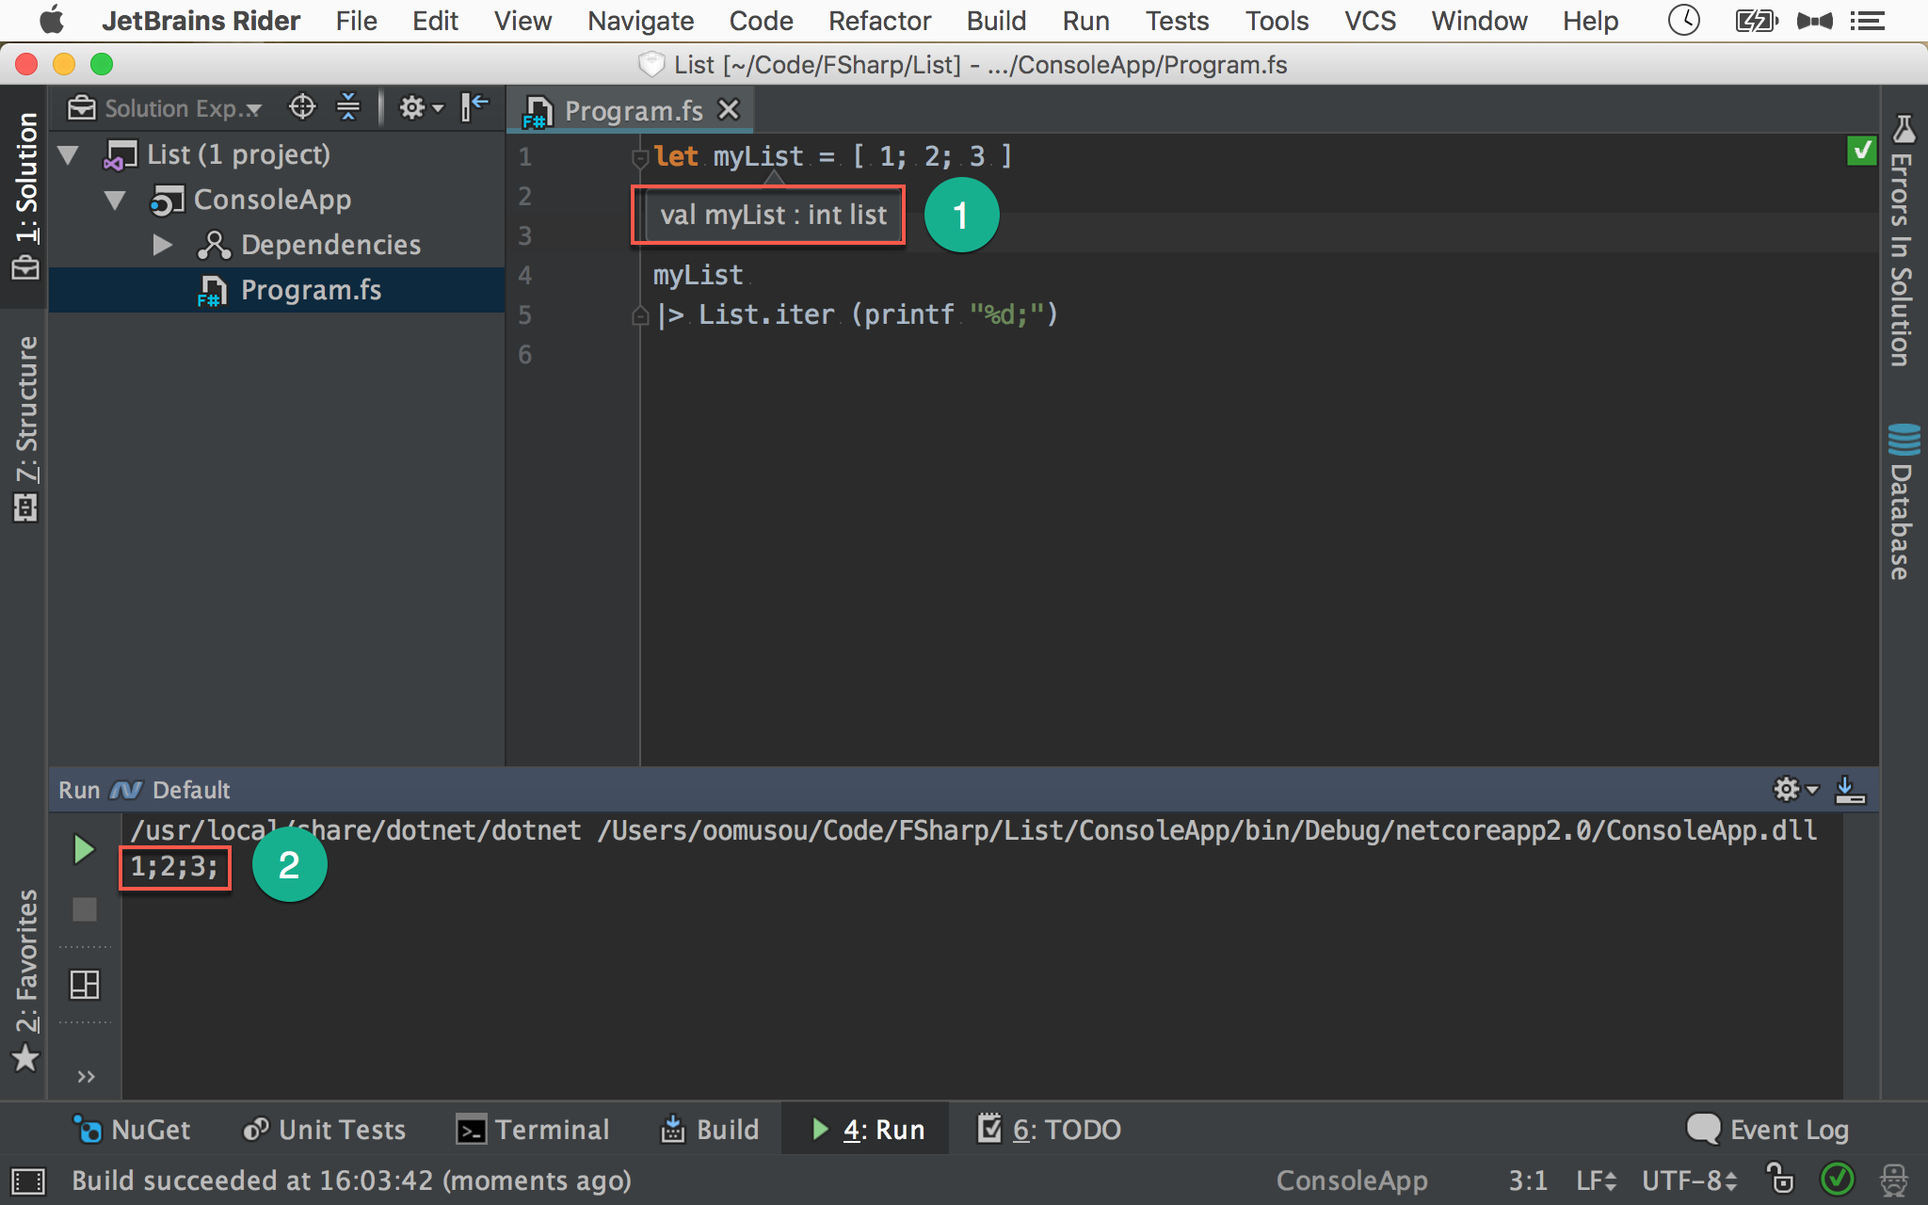
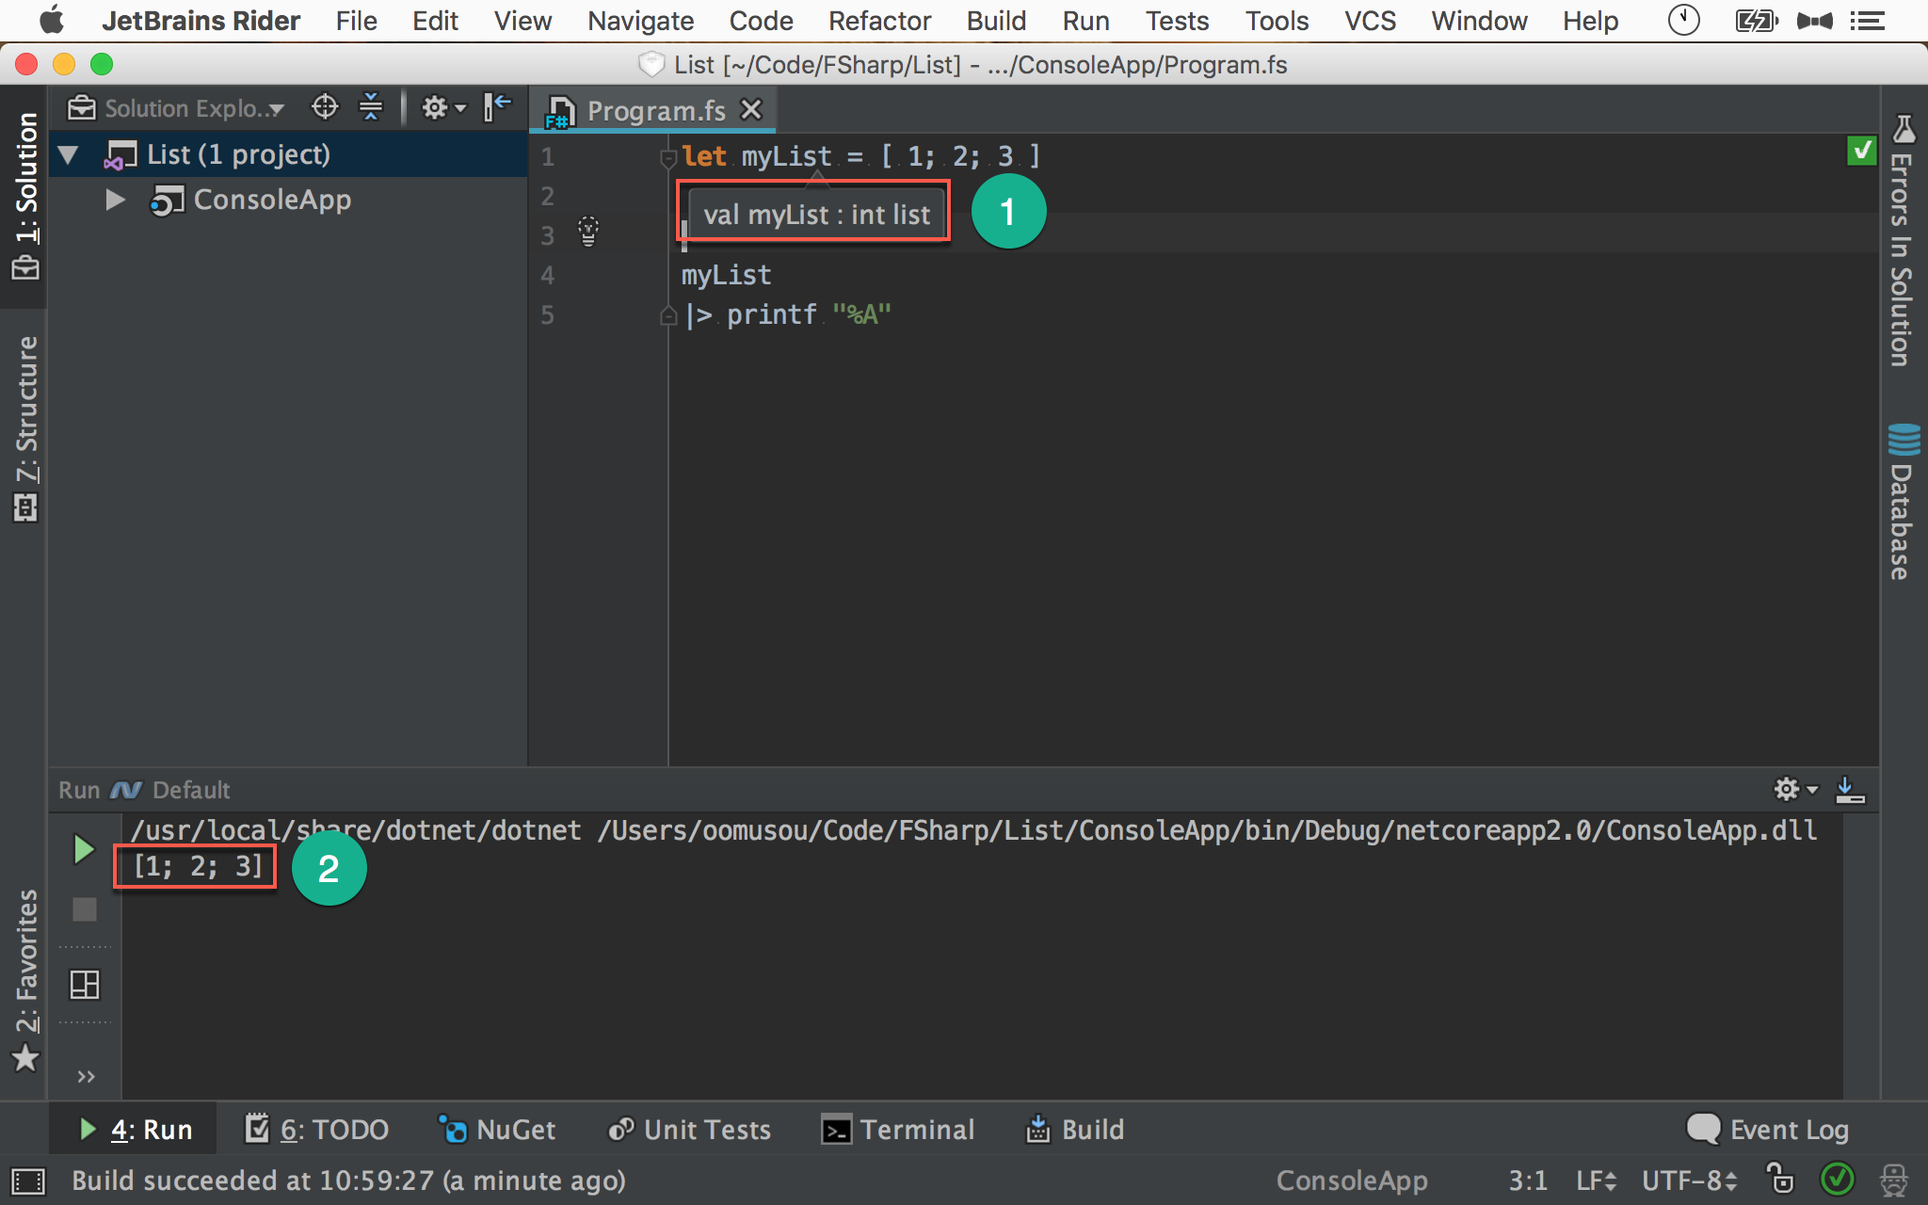
Site updated: 2018-04-06 11:10:20

diff --git a/fsharp/list/index.html b/fsharp/list/index.html
@@ -17,7 +17,7 @@
 <meta property="og:site_name" content="點燈坊">
 <meta property="og:description" content="探討 List 的各種語法">
 <meta property="og:image" content="http://oomusou.io/images/feature/logo.png">
-<meta property="og:updated_time" content="2018-04-05T15:01:35.845Z">
+<meta property="og:updated_time" content="2018-04-06T03:09:47.334Z">
 <meta name="twitter:card" content="summary">
 <meta name="twitter:title" content="深入探討 F# 之 List">
 <meta name="twitter:description" content="探討 List 的各種語法">
@@ -118,7 +118,7 @@
 </blockquote>
 <p>簡單來說，F# 的 List 就是 linked list 資料結構，為了實現 FP 的 Immutability，每個 element 建立後就不可再修改。</p>
 <h2 id="建立_List">建立 List</h2><hr>
-<h3 id="List_Literal">List Literal</h3><figure class="highlight fsharp"><table><tr><td class="gutter"><pre><span class="line">1</span><br><span class="line">2</span><br><span class="line">3</span><br><span class="line">4</span><br><span class="line">5</span><br></pre></td><td class="code"><pre><span class="line"><span class="keyword">let</span> myList = [ <span class="number">1</span>; <span class="number">2</span>; <span class="number">3</span> ]</span><br><span class="line"></span><br><span class="line">myList</span><br><span class="line">|&gt; List.iter (printf <span class="string">"%d "</span>)</span><br><span class="line"><span class="comment">// 1 2 3</span></span><br></pre></td></tr></table></figure>
+<h3 id="List_Literal">List Literal</h3><figure class="highlight fsharp"><table><tr><td class="gutter"><pre><span class="line">1</span><br><span class="line">2</span><br><span class="line">3</span><br><span class="line">4</span><br><span class="line">5</span><br></pre></td><td class="code"><pre><span class="line"><span class="keyword">let</span> myList = [ <span class="number">1</span>; <span class="number">2</span>; <span class="number">3</span> ]</span><br><span class="line"></span><br><span class="line">myList</span><br><span class="line">|&gt; printf <span class="string">"%A"</span></span><br><span class="line"><span class="comment">// [1; 2; 3]</span></span><br></pre></td></tr></table></figure>
 <p>List 使用 <code>[]</code> 中括號表示，element 之間以 <code>;</code> 隔開。</p>
 <p><img src="/images/fsharp/list/list000.png" alt="list000"></p>
 <ol>
@@ -127,28 +127,28 @@
 <blockquote>
 <p>F# 的型別都是寫在後面，不過 List 例外，element 型別寫在 list 前面</p>
 </blockquote>
-<figure class="highlight fsharp"><table><tr><td class="gutter"><pre><span class="line">1</span><br><span class="line">2</span><br><span class="line">3</span><br><span class="line">4</span><br><span class="line">5</span><br><span class="line">6</span><br><span class="line">7</span><br><span class="line">8</span><br><span class="line">9</span><br></pre></td><td class="code"><pre><span class="line"><span class="keyword">let</span> myList = [</span><br><span class="line">    <span class="number">1</span> <span class="comment">// Number one</span></span><br><span class="line">    <span class="number">2</span> <span class="comment">// Number two</span></span><br><span class="line">    <span class="number">3</span> <span class="comment">// Number three</span></span><br><span class="line">]</span><br><span class="line"></span><br><span class="line">myList</span><br><span class="line">|&gt; List.iter (printf <span class="string">"%d "</span>)</span><br><span class="line"><span class="comment">// 1 2 3</span></span><br></pre></td></tr></table></figure>
+<figure class="highlight fsharp"><table><tr><td class="gutter"><pre><span class="line">1</span><br><span class="line">2</span><br><span class="line">3</span><br><span class="line">4</span><br><span class="line">5</span><br><span class="line">6</span><br><span class="line">7</span><br><span class="line">8</span><br><span class="line">9</span><br></pre></td><td class="code"><pre><span class="line"><span class="keyword">let</span> myList = [</span><br><span class="line">    <span class="number">1</span> <span class="comment">// Number one</span></span><br><span class="line">    <span class="number">2</span> <span class="comment">// Number two</span></span><br><span class="line">    <span class="number">3</span> <span class="comment">// Number three</span></span><br><span class="line">]</span><br><span class="line"></span><br><span class="line">myList</span><br><span class="line">|&gt; printf <span class="string">"%A"</span></span><br><span class="line"><span class="comment">// [1; 2; 3;]</span></span><br></pre></td></tr></table></figure>
 <p>List 也可以使用換行的方式，此時可以不用加 <code>;</code> 隔開，適用於 element 量較多時，或需要在 element 加上註解時。</p>
 <figure class="highlight fsharp"><table><tr><td class="gutter"><pre><span class="line">1</span><br></pre></td><td class="code"><pre><span class="line"><span class="keyword">let</span> myControlList : Control list = [ <span class="keyword">new</span> Button(); <span class="keyword">new</span> CheckBox() ]</span><br></pre></td></tr></table></figure>
 <p>List 的 element 必須相同型別，若 element 是物件時，則有例外。基於 <code>里氏替換原則</code>，若 element 的型別為 <code>父類別</code> 或 <code>interface</code> 時，則 element 允許基於相同 <code>父類別</code> 或 <code>interface</code> 的物件。</p>
 <figure class="highlight fsharp"><table><tr><td class="gutter"><pre><span class="line">1</span><br></pre></td><td class="code"><pre><span class="line"><span class="keyword">let</span> list123 = []</span><br></pre></td></tr></table></figure>
 <p>空 list 則以 <code>[]</code> 表示。</p>
-<h3 id="List_Range">List Range</h3><figure class="highlight fsharp"><table><tr><td class="gutter"><pre><span class="line">1</span><br><span class="line">2</span><br><span class="line">3</span><br><span class="line">4</span><br><span class="line">5</span><br></pre></td><td class="code"><pre><span class="line"><span class="keyword">let</span> myList = [ <span class="number">1</span> .. <span class="number">10</span> ]</span><br><span class="line"></span><br><span class="line">myList</span><br><span class="line">|&gt; List.iter (printf <span class="string">"%d "</span>)</span><br><span class="line"><span class="comment">// 1 2 3 4 5 6 7 8 9 10</span></span><br></pre></td></tr></table></figure>
+<h3 id="List_Range">List Range</h3><figure class="highlight fsharp"><table><tr><td class="gutter"><pre><span class="line">1</span><br><span class="line">2</span><br><span class="line">3</span><br><span class="line">4</span><br><span class="line">5</span><br></pre></td><td class="code"><pre><span class="line"><span class="keyword">let</span> myList = [ <span class="number">1</span> .. <span class="number">10</span> ]</span><br><span class="line"></span><br><span class="line">myList</span><br><span class="line">|&gt; printf <span class="string">"%A"</span></span><br><span class="line"><span class="comment">// [1; 2; 3; 4; 5; 6; 7; 8; 9; 10]</span></span><br></pre></td></tr></table></figure>
 <p>若 list 的資料有規律性，則不必全部列出，可使用 <code>..</code>，只要列出頭跟尾即可。</p>
-<figure class="highlight fsharp"><table><tr><td class="gutter"><pre><span class="line">1</span><br><span class="line">2</span><br><span class="line">3</span><br><span class="line">4</span><br><span class="line">5</span><br></pre></td><td class="code"><pre><span class="line"><span class="keyword">let</span> myList = [ <span class="number">1</span> .. <span class="number">2</span> .. <span class="number">10</span> ]</span><br><span class="line"></span><br><span class="line">myList</span><br><span class="line">|&gt; List.iter (printf <span class="string">"%d "</span>)</span><br><span class="line"><span class="comment">// 1 3 5 7 9</span></span><br></pre></td></tr></table></figure>
+<figure class="highlight fsharp"><table><tr><td class="gutter"><pre><span class="line">1</span><br><span class="line">2</span><br><span class="line">3</span><br><span class="line">4</span><br><span class="line">5</span><br></pre></td><td class="code"><pre><span class="line"><span class="keyword">let</span> myList = [ <span class="number">1</span> .. <span class="number">2</span> .. <span class="number">10</span> ]</span><br><span class="line"></span><br><span class="line">myList</span><br><span class="line">|&gt; printf <span class="string">"%A"</span></span><br><span class="line"><span class="comment">// [1; 3; 5; 7; 9]</span></span><br></pre></td></tr></table></figure>
 <p>若 list 資料為 <code>等差級數</code>，則可在 <code>..</code> 與 <code>..</code> 之間加上 step value，其中 step value 也可以是 <code>負數</code>。</p>
 <h3 id="List_Comprehension">List Comprehension</h3><p>若資料的變化性更大，已經無法單純使用 List Range 描述，則可使用更進階的 List Comprehension 表示。</p>
-<figure class="highlight fsharp"><table><tr><td class="gutter"><pre><span class="line">1</span><br><span class="line">2</span><br><span class="line">3</span><br><span class="line">4</span><br><span class="line">5</span><br><span class="line">6</span><br><span class="line">7</span><br><span class="line">8</span><br></pre></td><td class="code"><pre><span class="line"><span class="keyword">let</span> myList = [</span><br><span class="line">    <span class="keyword">for</span> i <span class="keyword">in</span> <span class="number">1.</span><span class="number">.10</span> <span class="keyword">do</span></span><br><span class="line">        <span class="keyword">yield</span> i * i</span><br><span class="line">]</span><br><span class="line"></span><br><span class="line">myList</span><br><span class="line">|&gt; List.iter (printf <span class="string">"%d "</span>)</span><br><span class="line"><span class="comment">// 1 4 9 16 25 36 49 64 81 100</span></span><br></pre></td></tr></table></figure>
+<figure class="highlight fsharp"><table><tr><td class="gutter"><pre><span class="line">1</span><br><span class="line">2</span><br><span class="line">3</span><br><span class="line">4</span><br><span class="line">5</span><br><span class="line">6</span><br><span class="line">7</span><br><span class="line">8</span><br></pre></td><td class="code"><pre><span class="line"><span class="keyword">let</span> myList = [</span><br><span class="line">    <span class="keyword">for</span> i <span class="keyword">in</span> <span class="number">1.</span><span class="number">.10</span> <span class="keyword">do</span></span><br><span class="line">        <span class="keyword">yield</span> i * i</span><br><span class="line">]</span><br><span class="line"></span><br><span class="line">myList</span><br><span class="line">|&gt; printf <span class="string">"%A"</span></span><br><span class="line"><span class="comment">// [1; 4; 9; 16; 25; 36; 49; 64; 81; 100]</span></span><br></pre></td></tr></table></figure>
 <p>直接將 <code>for ... in … do</code> 寫在 <code>[]</code> 之內，<code>yield</code> 的 expression 即為 element。</p>
-<figure class="highlight fsharp"><table><tr><td class="gutter"><pre><span class="line">1</span><br><span class="line">2</span><br><span class="line">3</span><br><span class="line">4</span><br><span class="line">5</span><br></pre></td><td class="code"><pre><span class="line"><span class="keyword">let</span> myList = [<span class="keyword">for</span> i <span class="keyword">in</span> <span class="number">1.</span><span class="number">.10</span> -&gt; i * i]</span><br><span class="line"></span><br><span class="line">myList</span><br><span class="line">|&gt; List.iter (printf <span class="string">"%d "</span>)</span><br><span class="line"><span class="comment">// 1 4 9 16 25 36 49 64 81 100</span></span><br></pre></td></tr></table></figure>
+<figure class="highlight fsharp"><table><tr><td class="gutter"><pre><span class="line">1</span><br><span class="line">2</span><br><span class="line">3</span><br><span class="line">4</span><br><span class="line">5</span><br></pre></td><td class="code"><pre><span class="line"><span class="keyword">let</span> myList = [<span class="keyword">for</span> i <span class="keyword">in</span> <span class="number">1.</span><span class="number">.10</span> -&gt; i * i]</span><br><span class="line"></span><br><span class="line">myList</span><br><span class="line">|&gt; printf <span class="string">"%A"</span></span><br><span class="line"><span class="comment">// [1; 4; 9; 16; 25; 36; 49; 64; 81; 100]</span></span><br></pre></td></tr></table></figure>
 <p>亦可將 <code>do yield</code> 省略，直接將 <code>for ... in ... -&gt;</code> 寫在 <code>[]</code> 內，將 expression 寫在 <code>-&gt;</code> 之後。</p>
 <blockquote>
 <p>對於簡單的 expression，建議使用 <code>for ... in ... -&gt;</code> 語法較精簡，若還需更複雜的描述，則必須使用 <code>for ... in ... do yield</code></p>
 </blockquote>
 <h2 id="List_Operator">List Operator</h2><hr>
-<h3 id="::_Operator">:: Operator</h3><figure class="highlight fsharp"><table><tr><td class="gutter"><pre><span class="line">1</span><br><span class="line">2</span><br><span class="line">3</span><br><span class="line">4</span><br><span class="line">5</span><br><span class="line">6</span><br></pre></td><td class="code"><pre><span class="line"><span class="keyword">let</span> myList1 = [ <span class="number">1</span>; <span class="number">2</span>; <span class="number">3</span> ]</span><br><span class="line"><span class="keyword">let</span> myList2 = <span class="number">0</span> :: myList1</span><br><span class="line"></span><br><span class="line">myList2</span><br><span class="line">|&gt; List.iter (printf <span class="string">"%d "</span>)</span><br><span class="line"><span class="comment">// 0 1 2 3</span></span><br></pre></td></tr></table></figure>
+<h3 id="::_Operator">:: Operator</h3><figure class="highlight fsharp"><table><tr><td class="gutter"><pre><span class="line">1</span><br><span class="line">2</span><br><span class="line">3</span><br><span class="line">4</span><br><span class="line">5</span><br><span class="line">6</span><br></pre></td><td class="code"><pre><span class="line"><span class="keyword">let</span> myList1 = [ <span class="number">1</span>; <span class="number">2</span>; <span class="number">3</span> ]</span><br><span class="line"><span class="keyword">let</span> myList2 = <span class="number">0</span> :: myList1</span><br><span class="line"></span><br><span class="line">myList2</span><br><span class="line">|&gt; printf <span class="string">"%A"</span></span><br><span class="line"><span class="comment">// [0; 1; 2; 3]</span></span><br></pre></td></tr></table></figure>
 <p>將 value 加到 <code>:</code> 之前， 將加到 list 最前面。</p>
-<h3 id="@_Operator">@ Operator</h3><figure class="highlight fsharp"><table><tr><td class="gutter"><pre><span class="line">1</span><br><span class="line">2</span><br><span class="line">3</span><br><span class="line">4</span><br><span class="line">5</span><br><span class="line">6</span><br><span class="line">7</span><br></pre></td><td class="code"><pre><span class="line"><span class="keyword">let</span> myList1 = [ <span class="number">1</span>; <span class="number">2</span>; <span class="number">3</span> ]</span><br><span class="line"><span class="keyword">let</span> myList2 = [ <span class="number">4</span>; <span class="number">5</span>; <span class="number">6</span> ]</span><br><span class="line"><span class="keyword">let</span> myList3 = myList1 @ myList2</span><br><span class="line"></span><br><span class="line">myList3</span><br><span class="line">|&gt; List.iter (printf <span class="string">"%d "</span>)</span><br><span class="line"><span class="comment">// 1 2 3 4 5 6</span></span><br></pre></td></tr></table></figure>
+<h3 id="@_Operator">@ Operator</h3><figure class="highlight fsharp"><table><tr><td class="gutter"><pre><span class="line">1</span><br><span class="line">2</span><br><span class="line">3</span><br><span class="line">4</span><br><span class="line">5</span><br><span class="line">6</span><br><span class="line">7</span><br></pre></td><td class="code"><pre><span class="line"><span class="keyword">let</span> myList1 = [ <span class="number">1</span>; <span class="number">2</span>; <span class="number">3</span> ]</span><br><span class="line"><span class="keyword">let</span> myList2 = [ <span class="number">4</span>; <span class="number">5</span>; <span class="number">6</span> ]</span><br><span class="line"><span class="keyword">let</span> myList3 = myList1 @ myList2</span><br><span class="line"></span><br><span class="line">myList3</span><br><span class="line">|&gt; printf <span class="string">"%A"</span></span><br><span class="line"><span class="comment">// [1; 2; 3; 4; 5; 6]</span></span><br></pre></td></tr></table></figure>
 <p><code>@</code> 將兩個 list 合併為一個 list。</p>
 <h2 id="List_Property">List Property</h2><hr>
 <p>List 本身提供了不少 property 可用。</p>
@@ -161,7 +161,7 @@
 <p>‘T list</p>
 <p>獲得第 1 個 element 除外，剩下的 list</p>
 </blockquote>
-<figure class="highlight fsharp"><table><tr><td class="gutter"><pre><span class="line">1</span><br><span class="line">2</span><br><span class="line">3</span><br><span class="line">4</span><br><span class="line">5</span><br></pre></td><td class="code"><pre><span class="line"><span class="keyword">let</span> myList = [ <span class="number">1</span> .. <span class="number">3</span> ]</span><br><span class="line"></span><br><span class="line">myList.Tail</span><br><span class="line">|&gt; List.iter (printf <span class="string">"%d "</span>)</span><br><span class="line"><span class="comment">// 2 3</span></span><br></pre></td></tr></table></figure>
+<figure class="highlight fsharp"><table><tr><td class="gutter"><pre><span class="line">1</span><br><span class="line">2</span><br><span class="line">3</span><br><span class="line">4</span><br><span class="line">5</span><br></pre></td><td class="code"><pre><span class="line"><span class="keyword">let</span> myList = [ <span class="number">1</span> .. <span class="number">3</span> ]</span><br><span class="line"></span><br><span class="line">myList.Tail</span><br><span class="line">|&gt; printf <span class="string">"%A"</span></span><br><span class="line"><span class="comment">// [2; 3]</span></span><br></pre></td></tr></table></figure>
 <p>就算 Tail 只剩下 1 個 element，仍然是 1 個 element 的 list。</p>
 <h3 id="isEmpty">isEmpty</h3><blockquote>
 <p>bool</p>

diff --git a/hexo/md-overview/index.html b/hexo/md-overview/index.html
@@ -133,7 +133,7 @@
 <span class="xml"><span class="tag">&lt;<span class="title">http:</span>//<span class="attribute">oomusou.io</span>&gt;</span></span>
 [<span class="link_label">My Blog</span>](<span class="link_url">http://oomusou.io</span>)
 [<span class="link_label">My Email</span>](<span class="link_url">oomusou@gmail.com</span>)
-</code></pre><p><a href="&#x6d;&#97;&#x69;&#x6c;&#x74;&#111;&#58;&#111;&#x6f;&#109;&#x75;&#x73;&#x6f;&#117;&#64;&#x67;&#x6d;&#97;&#x69;&#x6c;&#46;&#x63;&#x6f;&#109;">&#111;&#x6f;&#109;&#x75;&#x73;&#x6f;&#117;&#64;&#x67;&#x6d;&#97;&#x69;&#x6c;&#46;&#x63;&#x6f;&#109;</a><br><a href="http://oomusou.io">http://oomusou.io</a><br><a href="http://oomusou.io">My Blog</a><br><a href="oomusou@gmail.com">My Email</a></p>
+</code></pre><p><a href="&#109;&#97;&#x69;&#x6c;&#x74;&#x6f;&#58;&#x6f;&#111;&#109;&#x75;&#115;&#x6f;&#x75;&#x40;&#x67;&#x6d;&#x61;&#x69;&#108;&#46;&#99;&#x6f;&#109;">&#x6f;&#111;&#109;&#x75;&#115;&#x6f;&#x75;&#x40;&#x67;&#x6d;&#x61;&#x69;&#108;&#46;&#99;&#x6f;&#109;</a><br><a href="http://oomusou.io">http://oomusou.io</a><br><a href="http://oomusou.io">My Blog</a><br><a href="oomusou@gmail.com">My Email</a></p>
 <h2 id="圖片">圖片</h2><hr>
 <pre><code>![<span class="link_label">step1</span>](<span class="link_url">/images/md000.png</span>)
 </code></pre><p><img src="/images/hexo/md-overview/md000.png" alt="step1"></p>
